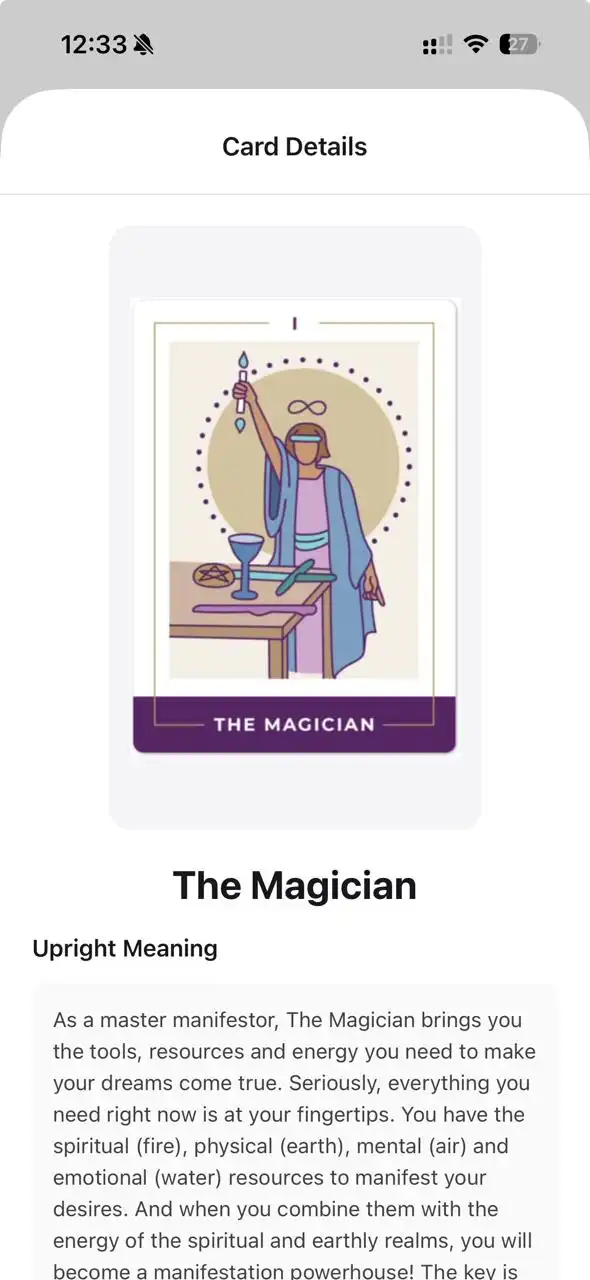
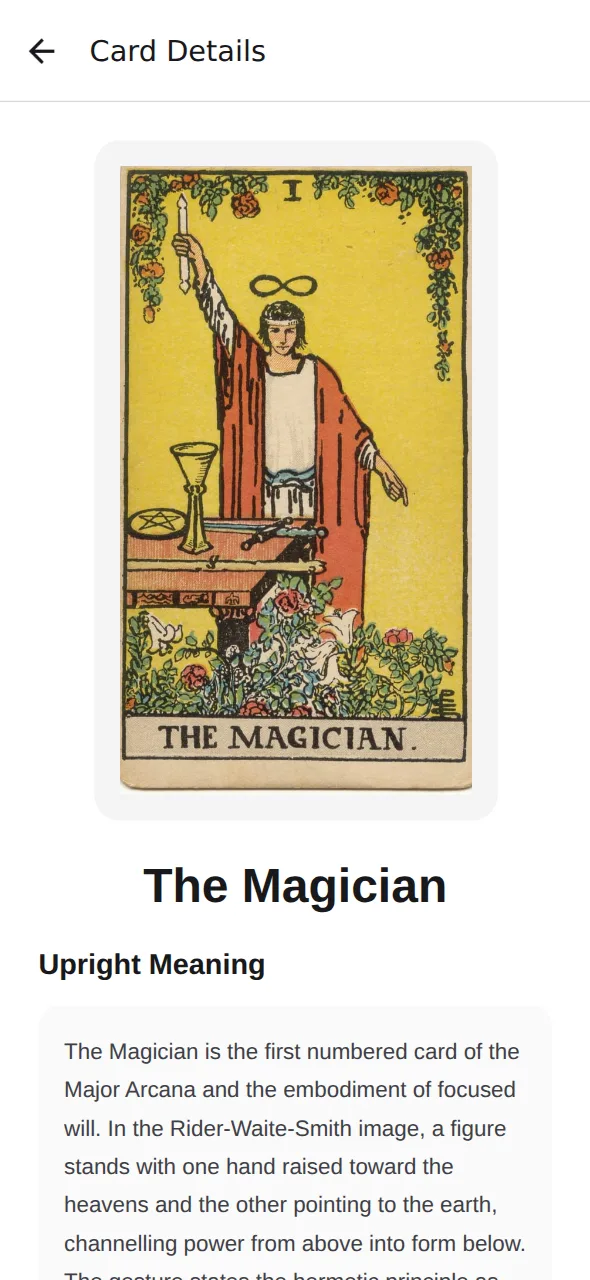
feat: card images keep their printed proportion on every screen, screenshots refreshed

diff --git a/app/(tabs)/index.tsx b/app/(tabs)/index.tsx
@@ -6,6 +6,7 @@ import { useUserId } from "../../src/hooks/useUserId";
 import type { DailyCardResponse } from "../../src/api/types";
 import { RotateCcw } from "lucide-react-native";
 import { appColors } from "../../src/constants/colors";
+import { CARD_ASPECT } from "../../src/constants/card";
 
 export default function DailyCardScreen() {
   const { userId, loading: userIdLoading } = useUserId();
@@ -69,7 +70,7 @@ export default function DailyCardScreen() {
   return (
     <ScrollView className="flex-1 bg-white dark:bg-zinc-950">
       <View className="px-6 pt-6 pb-8">
-        <View className="items-center">
+        <View className="items-center mb-6">
           <Text className="text-sm uppercase tracking-wider text-zinc-500 dark:text-zinc-500 mb-3 font-medium">
             {new Date(dailyCard.date).toLocaleDateString('en-US', { 
               weekday: 'long', 
@@ -97,7 +98,7 @@ export default function DailyCardScreen() {
           >
             <Image
               source={{ uri: card.imageUrl }}
-              style={{ width: 220, height: 374 }}
+              style={{ width: 220, aspectRatio: CARD_ASPECT }}
               contentFit="contain"
               transition={300}
             />

diff --git a/app/(tabs)/browse.tsx b/app/(tabs)/browse.tsx
@@ -5,6 +5,7 @@ import { router } from "expo-router";
 import { appColors } from "../../src/constants/colors";
 import { hasApiKey, tarotApi } from "../../src/api";
 import type { BasicCard } from "../../src/api/types";
+import { CARD_ASPECT } from "../../src/constants/card";
 
 export default function BrowseCardsScreen() {
   const [cards, setCards] = useState<BasicCard[]>([]);
@@ -93,7 +94,7 @@ export default function BrowseCardsScreen() {
             <View className="bg-zinc-50 dark:bg-zinc-900 rounded-xl p-2">
               <Image
                 source={{ uri: item.imageUrl }}
-                style={{ width: '100%', aspectRatio: 0.6 }}
+                style={{ width: '100%', aspectRatio: CARD_ASPECT }}
                 contentFit="contain"
               />
               <Text className="text-xs text-center mt-1 text-zinc-700 dark:text-zinc-300" numberOfLines={2}>

diff --git a/app/(tabs)/draw.tsx b/app/(tabs)/draw.tsx
@@ -4,6 +4,7 @@ import { Image } from "expo-image";
 import { router } from "expo-router";
 import { tarotApi } from "../../src/api";
 import type { DrawnCard } from "../../src/api/types";
+import { CARD_ASPECT } from "../../src/constants/card";
 
 export default function DrawScreen() {
   const [count, setCount] = useState(3);
@@ -73,7 +74,7 @@ export default function DrawScreen() {
               <View className="bg-zinc-50 dark:bg-zinc-900 rounded-xl p-3">
                 <Image
                   source={{ uri: item.imageUrl }}
-                  style={{ width: 126, height: 210 }}
+                  style={{ width: 126, aspectRatio: CARD_ASPECT }}
                   contentFit="contain"
                 />
                 <Text className="text-xs mt-2 text-center font-semibold text-zinc-900 dark:text-white">

diff --git a/app/(tabs)/yes-no.tsx b/app/(tabs)/yes-no.tsx
@@ -5,6 +5,7 @@ import { appColors } from "../../src/constants/colors";
 import { tarotApi } from "../../src/api";
 import type { YesNoResponse } from "../../src/api/types";
 import { Image } from "expo-image";
+import { CARD_ASPECT } from "../../src/constants/card";
 
 export default function YesNoScreen() {
   const [question, setQuestion] = useState("");
@@ -81,7 +82,7 @@ export default function YesNoScreen() {
               <View className="bg-zinc-100 dark:bg-zinc-800 rounded-2xl p-4">
                 <Image
                   source={{ uri: result.card.imageUrl }}
-                  style={{ width: 180, height: 300 }}
+                  style={{ width: 180, aspectRatio: CARD_ASPECT }}
                   contentFit="contain"
                 />
               </View>

diff --git a/app/(tabs)/spreads.tsx b/app/(tabs)/spreads.tsx
@@ -6,6 +6,7 @@ import { LayoutGrid, Heart, Briefcase, RotateCcw } from "lucide-react-native";
 import { appColors } from "../../src/constants/colors";
 import { tarotApi } from "../../src/api";
 import type { SpreadResponse } from "../../src/api/types";
+import { CARD_ASPECT } from "../../src/constants/card";
 
 type SpreadPosition = SpreadResponse['positions'][number];
 
@@ -70,7 +71,7 @@ export default function SpreadsScreen() {
       <View className="bg-zinc-50 dark:bg-zinc-900 rounded-xl p-3 flex-row items-center">
         <Image
           source={{ uri: position.card.imageUrl }}
-          style={{ width: 60, height: 102 }}
+          style={{ width: 60, aspectRatio: CARD_ASPECT }}
           contentFit="contain"
         />
         <View className="flex-1 ml-3">

diff --git a/app/card/[id].tsx b/app/card/[id].tsx
@@ -5,6 +5,7 @@ import { Image } from "expo-image";
 import { appColors } from "../../src/constants/colors";
 import { tarotApi } from "../../src/api";
 import type { TarotCard } from "../../src/api/types";
+import { CARD_ASPECT } from "../../src/constants/card";
 
 export default function CardDetailScreen() {
   const { id } = useLocalSearchParams<{ id: string }>();
@@ -43,7 +44,7 @@ export default function CardDetailScreen() {
           <View className="bg-zinc-100 dark:bg-zinc-800 rounded-2xl p-4">
             <Image
               source={{ uri: card.imageUrl }}
-              style={{ width: 220, height: 374 }}
+              style={{ width: 220, aspectRatio: CARD_ASPECT }}
               contentFit="contain"
             />
           </View>

diff --git a/src/components/RoxyBranding.tsx b/src/components/RoxyBranding.tsx
@@ -13,7 +13,7 @@ export function RoxyBranding() {
         Powered by RoxyAPI
       </Text>
       <Text style={{ fontSize: 16, color: '#6b7280', marginBottom: 32, textAlign: 'center', paddingHorizontal: 16 }}>
-        Professional Tarot API with 78-card Rider-Waite deck, spread layouts, and divination endpoints
+        Professional Tarot API with 78-card deck in its 1909 Pamela Colman Smith edition, spread layouts, and divination endpoints
       </Text>
       <View style={{ width: '100%', maxWidth: 400, gap: 12 }}>
         <Pressable

diff --git a/src/constants/card.ts b/src/constants/card.ts
@@ -1,0 +1,2 @@
+/** Width over height of every card image the API serves, so card boxes show the whole card. */
+export const CARD_ASPECT = 600 / 1072;

diff --git a/AGENTS.md b/AGENTS.md
@@ -1,6 +1,6 @@
 # Agents Guide
 
-This is a RoxyAPI starter app. A tarot reading app built with React Native, Expo SDK 57, and TypeScript. Ships with the full 78 card Rider Waite deck, daily readings, multi card spreads, and yes or no divination, all powered by the RoxyAPI Tarot API through the official `@roxyapi/sdk`.
+This is a RoxyAPI starter app. A tarot reading app built with React Native, Expo SDK 57, and TypeScript. Ships with the full 78 card deck in its 1909 Pamela Colman Smith edition, daily readings, multi card spreads, and yes or no divination, all powered by the RoxyAPI Tarot API through the official `@roxyapi/sdk`.
 
 ## Setup
 - Get an API key at https://roxyapi.com/pricing
